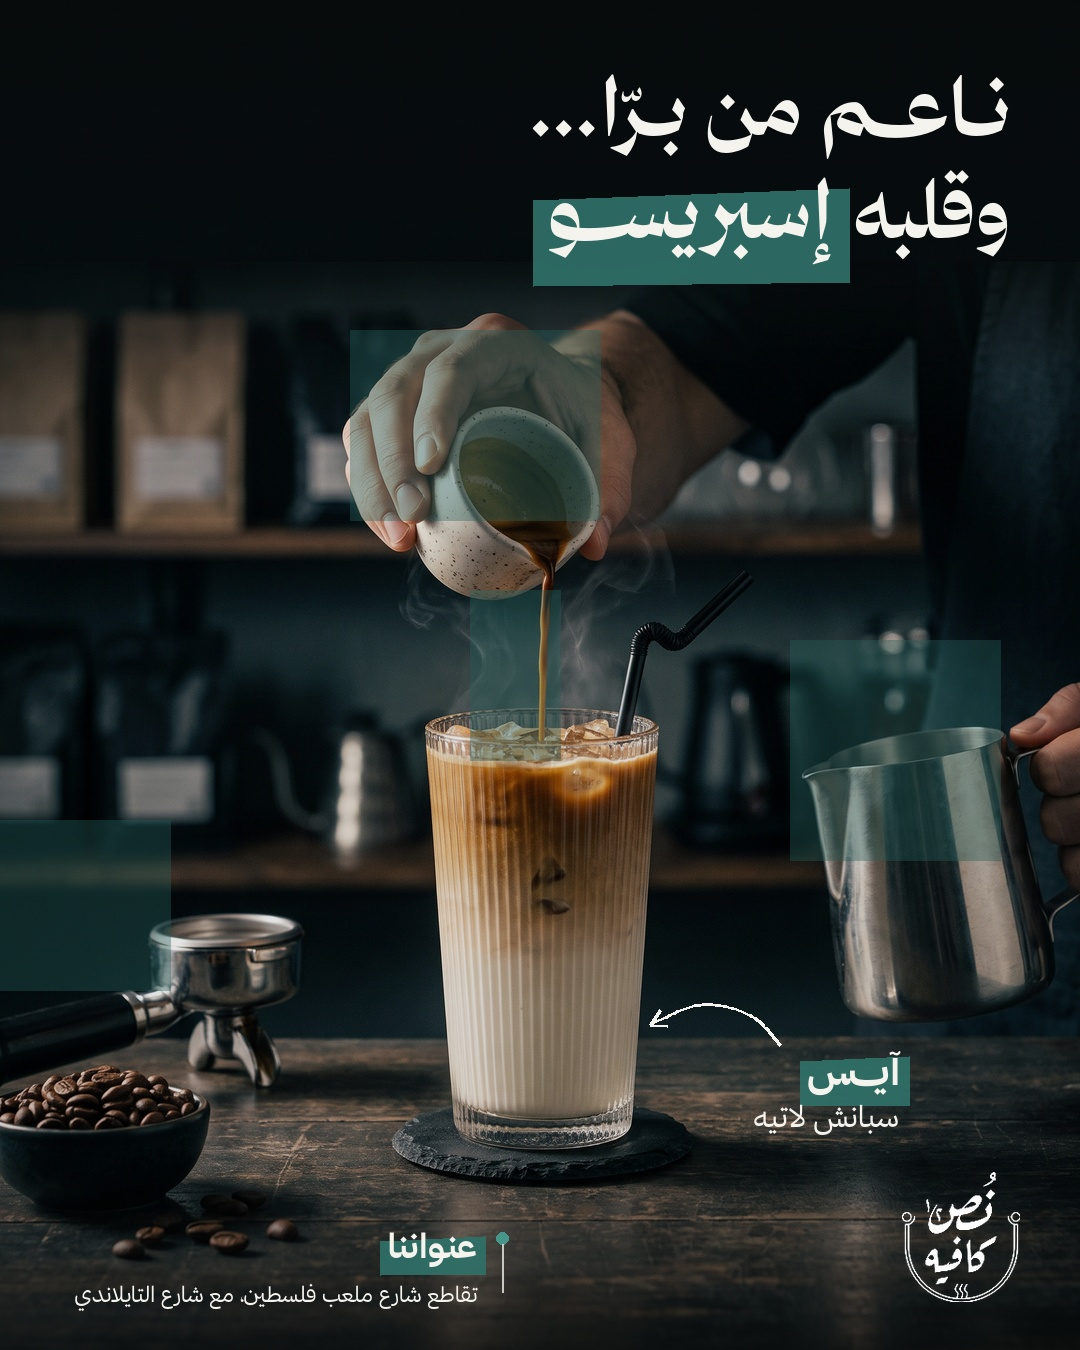
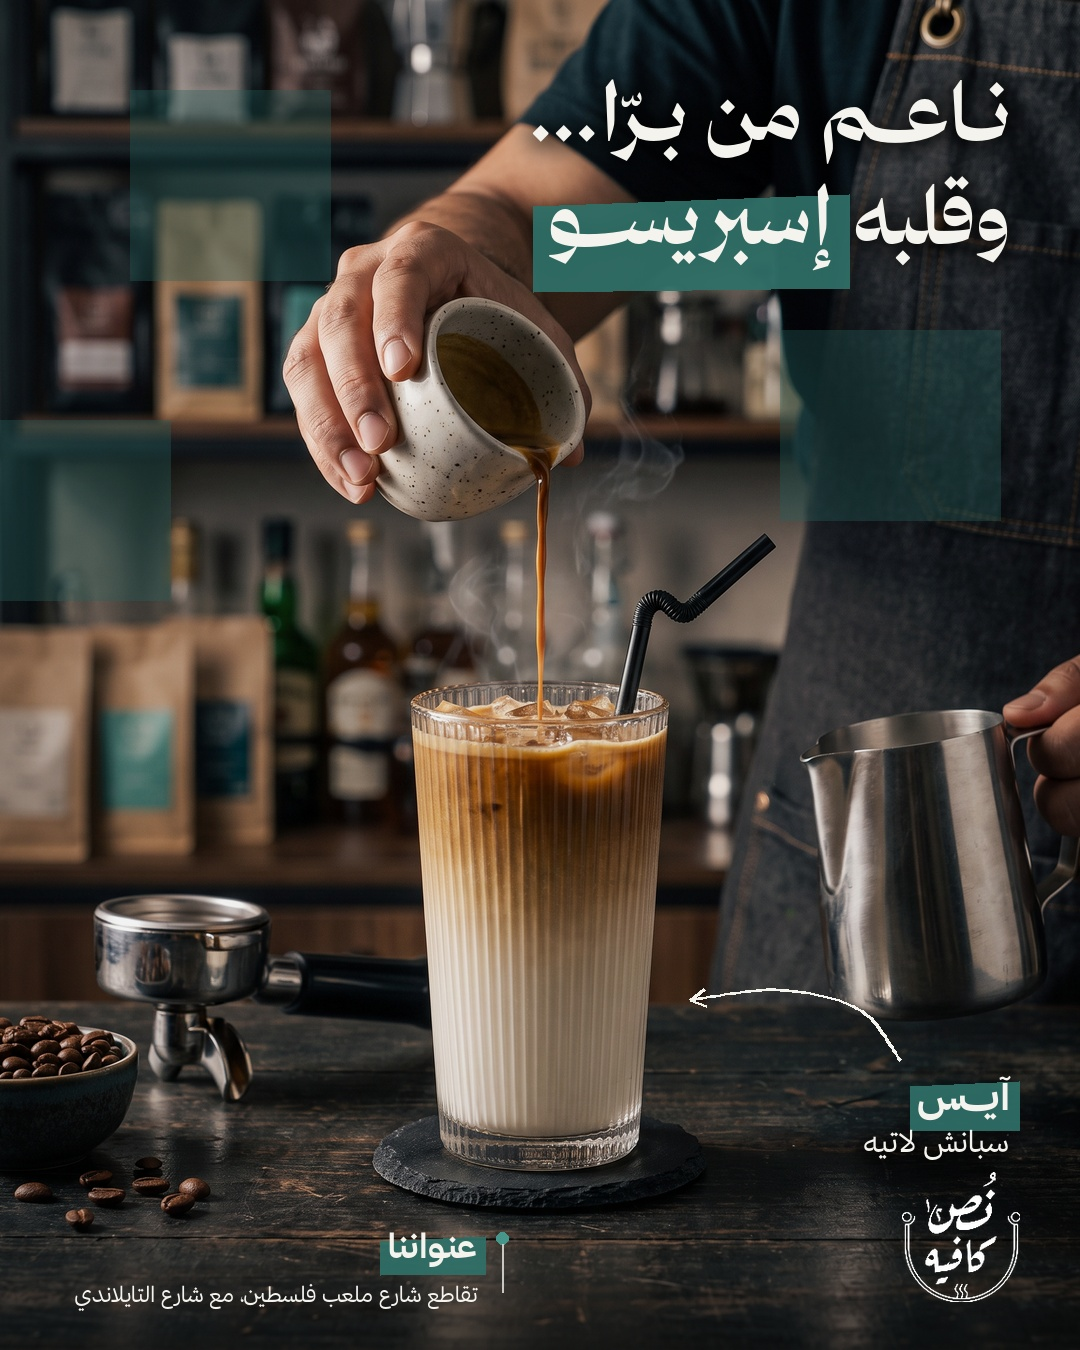
Add Qunbulet Al-Nuss carousel and redo Spanish latte without black top
Claude-Session: https://claude.ai/code/session_015dwSS3fWoFBppmEP84oyNx

diff --git a/tools/example_carousel.py b/tools/example_carousel.py
@@ -1,0 +1,69 @@
+import os; exec(open(os.path.join(os.path.dirname(os.path.abspath(__file__)),'post.py')).read())
+def load(n,bright=1.0):
+    im=cover(Image.open(S+'gen/'+n+'.png').convert('RGB'))
+    if bright!=1.0: im=ImageEnhance.Brightness(im).enhance(bright)
+    return im
+def bottom_fade(im,start=.86,amt=.6):
+    g=Image.new('L',(1,H))
+    for y in range(H): g.putpixel((0,y),int(255*min(1,max(0,(y-H*start)/(H*(1-start)))**1.3*amt)))
+    return Image.composite(Image.new('RGB',(W,H),(8,10,10)),im,g.resize((W,H)))
+def teal_blocks(img,boxes,a=90):
+    lay=Image.new('RGBA',(W,H),(0,0,0,0)); ld=ImageDraw.Draw(lay)
+    for b in boxes: ld.rectangle(b,fill=(38,96,92,a))
+    img.alpha_composite(lay)
+def swipe(img,n):
+    d=ImageDraw.Draw(img); f=SR(26)
+    d.text((W-60,H-60),f'{n} / 5',font=f,fill=(225,225,220),anchor='rs')
+HF=DB(80)
+# ---------- latte redo
+im=bottom_fade(load('latte2',.95)).convert('RGBA')
+teal_blocks(im,[(130,90,330,280),(780,330,1000,520),(0,420,170,600)])
+headline(im,1010,140,'نـاعــم من بـرّا...','وقلبه ','إسبريســـو',HF)
+label(im,1010,1110,'آيـــس','سبانش لاتيه',[(900,1060),(860,1010),(780,990),(690,1000)])
+footer(im,ImageDraw.Draw(im))
+im.convert('RGB').save(S+'out/post3_spanish_latte_magnific.jpg',quality=95)
+
+# ---------- carousel
+# 1 teaser: dark with light only on top of dome
+im=load('s1')
+dark=ImageEnhance.Brightness(im).enhance(.22)
+m=Image.new('L',(W//4,H//4),0); dm=ImageDraw.Draw(m); dm.ellipse([95,120,175,175],fill=255)
+m=m.filter(ImageFilter.GaussianBlur(14)).resize((W,H))
+im=Image.composite(ImageEnhance.Brightness(im).enhance(.9),dark,m).convert('RGBA')
+headline(im,1010,190,'في إشي بالمنيو...','حامل ','اسمنـــا',DB(88),gap=112)
+d=ImageDraw.Draw(im); text(d,1010,420,'خمّن شو هو؟',SR(40),fill=(220,220,215))
+arrow(im,[(260,1180),(200,1210),(130,1200),(90,1170)])
+d=ImageDraw.Draw(im); text(d,560,1200,'اسحب',SB(34))
+logo_br(im); im.convert('RGB').save(S+'out/carousel_1.jpg',quality=95)
+
+# 2 reveal
+im=bottom_fade(load('s2')).convert('RGBA')
+teal_blocks(im,[(0,330,200,520),(890,700,1080,880)])
+headline(im,520,170,'قنبلـــة','','النُّص',DB(110),gap=130)
+d=ImageDraw.Draw(im); shadow_text(im,[(440,390,'وصلت يا جماعة...',SR(38))]); d=ImageDraw.Draw(im); text(d,440,390,'وصلت يا جماعة...',SR(38))
+label(im,420,660,'صوص','بستاشيو لايف',[(430,610),(470,585),(505,600),(522,640)])
+swipe(im,2); im.convert('RGB').save(S+'out/carousel_2.jpg',quality=95)
+
+# 3 inside
+im=bottom_fade(load('s3a')).convert('RGBA')
+headline(im,1010,170,'شو','جوّاتهـــا','؟',DB(96),gap=118) if False else None
+headline(im,1010,190,'شو جوّاتهـــا؟','','',DB(96))
+label(im,250,420,'بستاشيـــو','مكسّر عالوجه',[(290,445),(330,470),(360,510),(380,540)])
+label(im,1010,450,'كريمـــة','ناعمة وخفيفة',[(830,470),(760,490),(700,540),(660,590)])
+label(im,760,1040,'نوتيـــلا','بالقلب',[(560,1020),(520,980),(500,920),(500,840)])
+label(im,1040,1000,'شوكولاتة','القشرة',[(960,950),(950,880),(920,820),(900,780)])
+swipe(im,3); im.convert('RGB').save(S+'out/carousel_3.jpg',quality=95)
+
+# 4 pairing
+im=bottom_fade(load('s4')).convert('RGBA')
+teal_blocks(im,[(850,820,1060,1000),(80,620,260,760)])
+headline(im,1010,190,'ما بتكمل إلا مع...','قهوة ','تركـــي',HF)
+swipe(im,4); im.convert('RGB').save(S+'out/carousel_4.jpg',quality=95)
+
+# 5 CTA
+im=bottom_fade(load('s5'),.80,.85).convert('RGBA')
+teal_blocks(im,[(860,330,1060,520)])
+headline(im,1010,170,'تعال','','فجّرهـــا عنّا',DB(100),gap=124)
+footer(im,ImageDraw.Draw(im))
+im.convert('RGB').save(S+'out/carousel_5.jpg',quality=95)
+print('ok')

diff --git a/tools/post.py b/tools/post.py
@@ -1,7 +1,7 @@
 import sys,math
 from PIL import Image,ImageDraw,ImageFont,ImageFilter,ImageEnhance,ImageChops
 import os
-S=os.environ.get('NUSS_WORK','/tmp/nuss/')  # folder with fonts/ products/ logo.png out/
+S=os.environ.get('NUSS_WORK','/tmp/nuss/')  # folder with fonts/ products/ gen/ logo.png out/
 W,H=1080,1350
 TEAL=(47,112,104); TEAL_D=(35,92,86); WHITE=(245,243,238)
 R=ImageFont.Layout.RAQM
@@ -79,3 +79,33 @@ def place(im,scale=.82,cx=.5,bottom=0):
     m=Image.new('L',fg.size,0); md=ImageDraw.Draw(m); e=90
     md.rectangle([e,e,fg.width-e,fg.height-e],fill=255); m=m.filter(ImageFilter.GaussianBlur(50))
     bg.paste(fg,(x,y),m); return bg
+
+def shadow_text(base,items,blur=10,alpha=170):
+    """items: list of (x,y,text,font); soft dark shadow behind for readability"""
+    lay=Image.new('L',base.size,0); d=ImageDraw.Draw(lay)
+    for x,y,t,f in items: d.text((x,y+3),t,font=f,fill=255,direction='rtl',anchor='rs',stroke_width=6,stroke_fill=255)
+    lay=lay.filter(ImageFilter.GaussianBlur(blur)).point(lambda v:v*alpha//255)
+    base.alpha_composite(Image.merge('RGBA',(*Image.new('RGB',base.size,(0,0,0)).split(),lay)))
+
+def headline(img,XR,y1,l1,l2a,l2b,f,gap=104):
+    """two-line headline; l2b gets the teal block. returns draw"""
+    d=ImageDraw.Draw(img); wa=tw(d,l2a,f) if l2a else 0
+    shadow_text(img,[(XR,y1,l1,f),(XR,y1+gap,l2a+l2b,f)])
+    d=ImageDraw.Draw(img)
+    hl(img,d,XR-wa,y1+gap,l2b,f,pad=(16,4),skew=8); d=ImageDraw.Draw(img)
+    text(d,XR,y1,l1,f)
+    if l2a: text(d,XR,y1+gap,l2a,f)
+    text(d,XR-wa,y1+gap,l2b,f); return d
+
+def label(img,lx,ly,bold,sub,arrow_pts):
+    d=ImageDraw.Draw(img)
+    shadow_text(img,[(lx,ly,bold,SB(40)),(lx,ly+42,sub,SR(30))],blur=8,alpha=150) if sub else shadow_text(img,[(lx,ly,bold,SB(40))],blur=8,alpha=150)
+    d=ImageDraw.Draw(img)
+    hl(img,d,lx,ly,bold,SB(40),pad=(8,2),skew=3); d=ImageDraw.Draw(img)
+    text(d,lx,ly,bold,SB(40))
+    if sub: text(d,lx,ly+42,sub,SR(30))
+    arrow(img,arrow_pts)
+
+def logo_br(img,size=118):
+    lg=Image.open(S+'logo.png'); lg=lg.resize((size,round(lg.height*size/lg.width)),Image.LANCZOS)
+    img.alpha_composite(lg,(W-60-size,H-48-lg.height))
